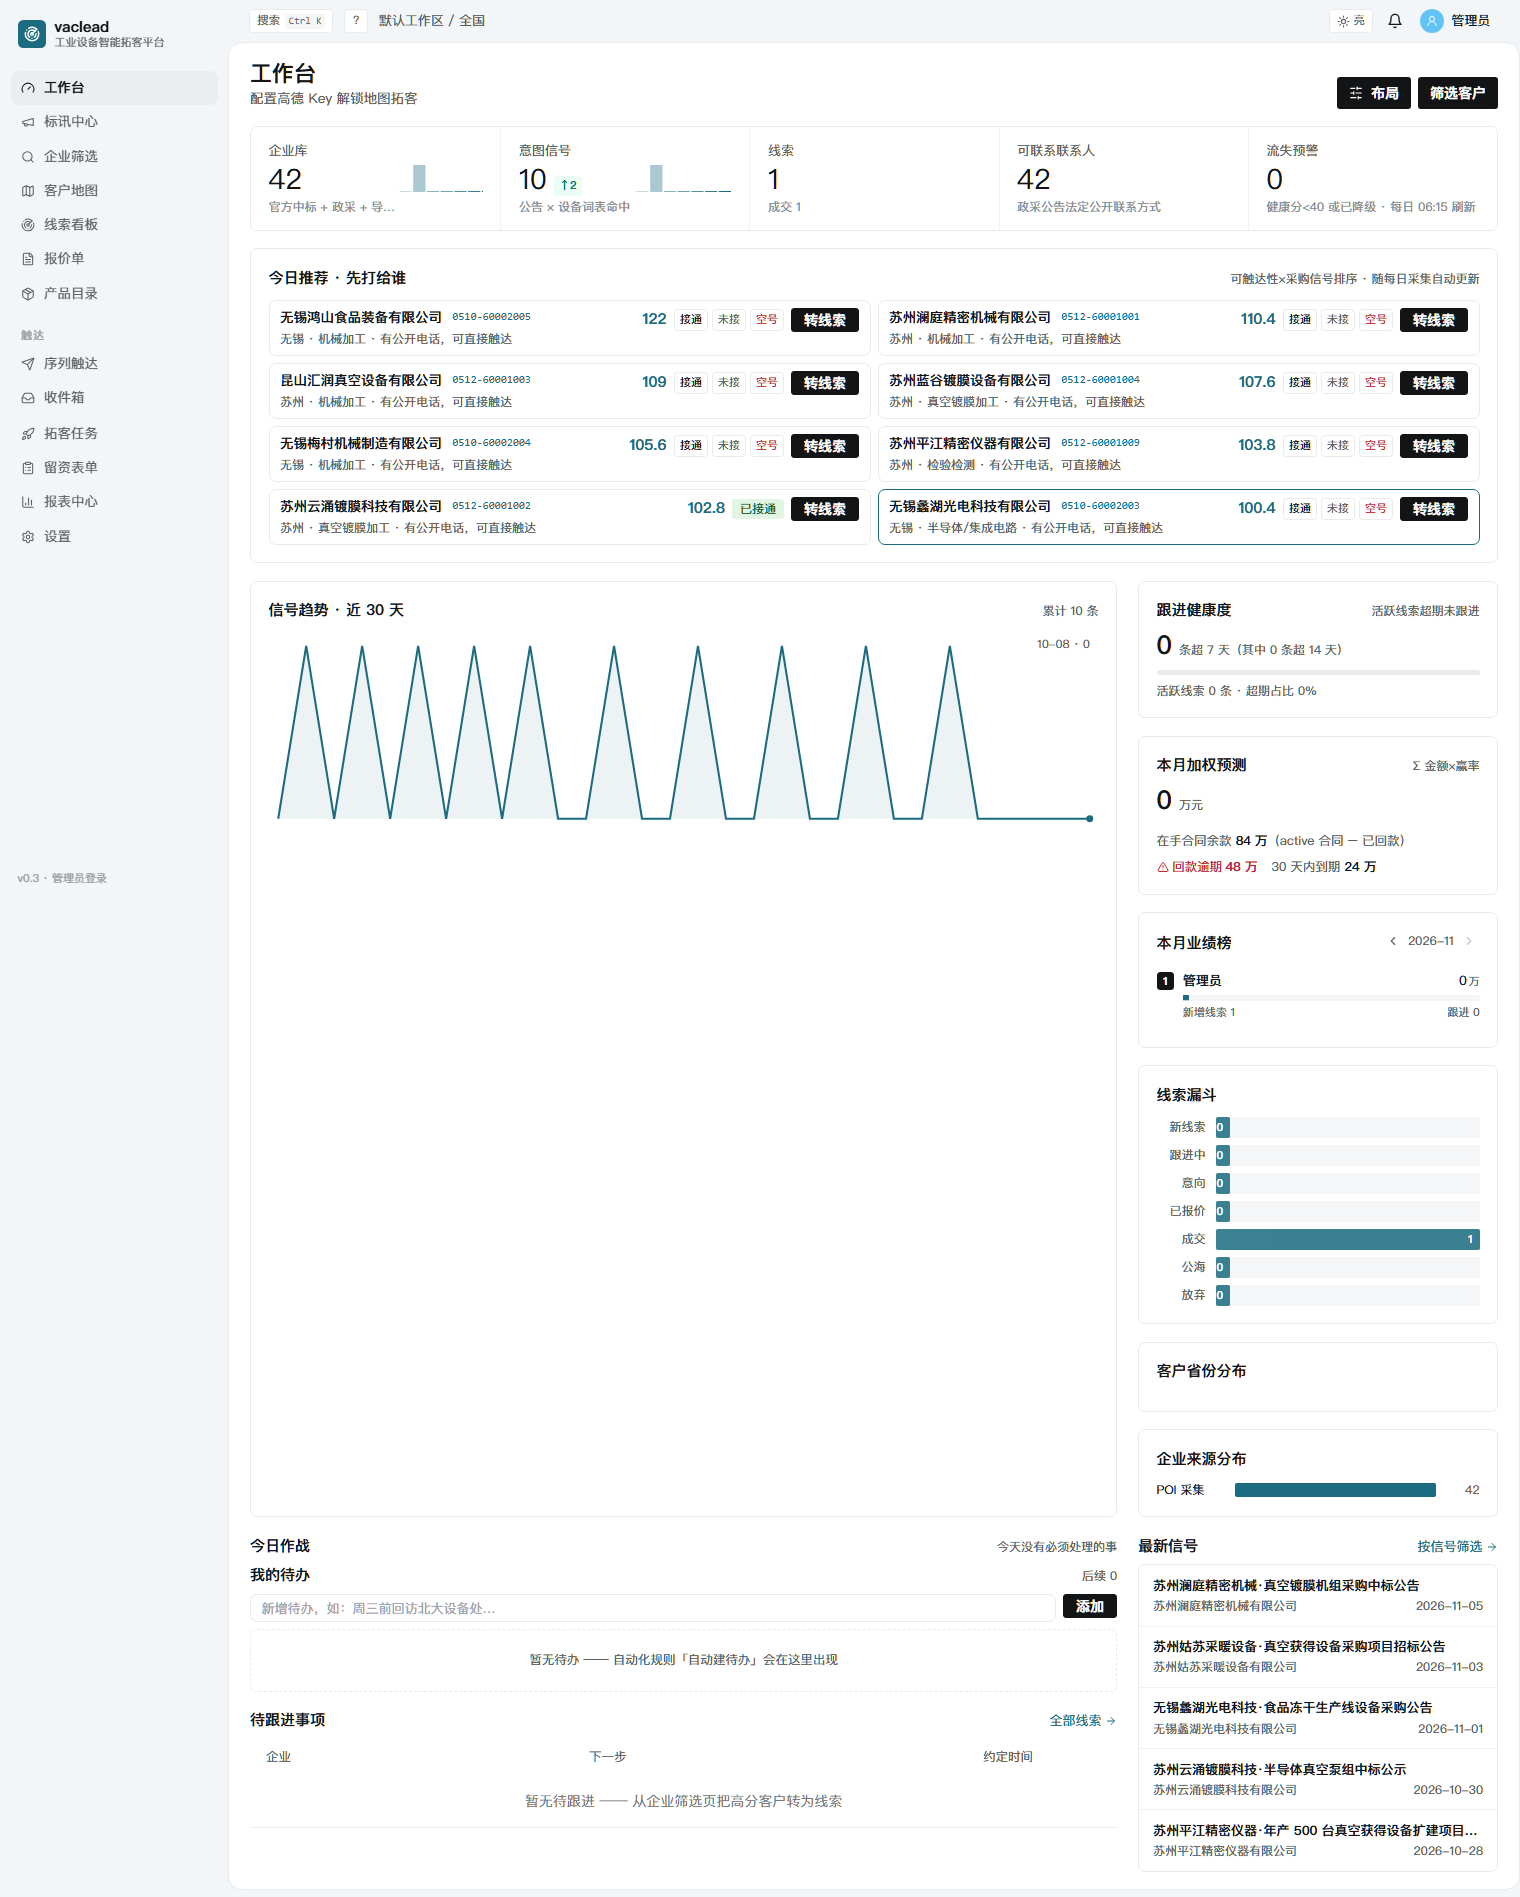
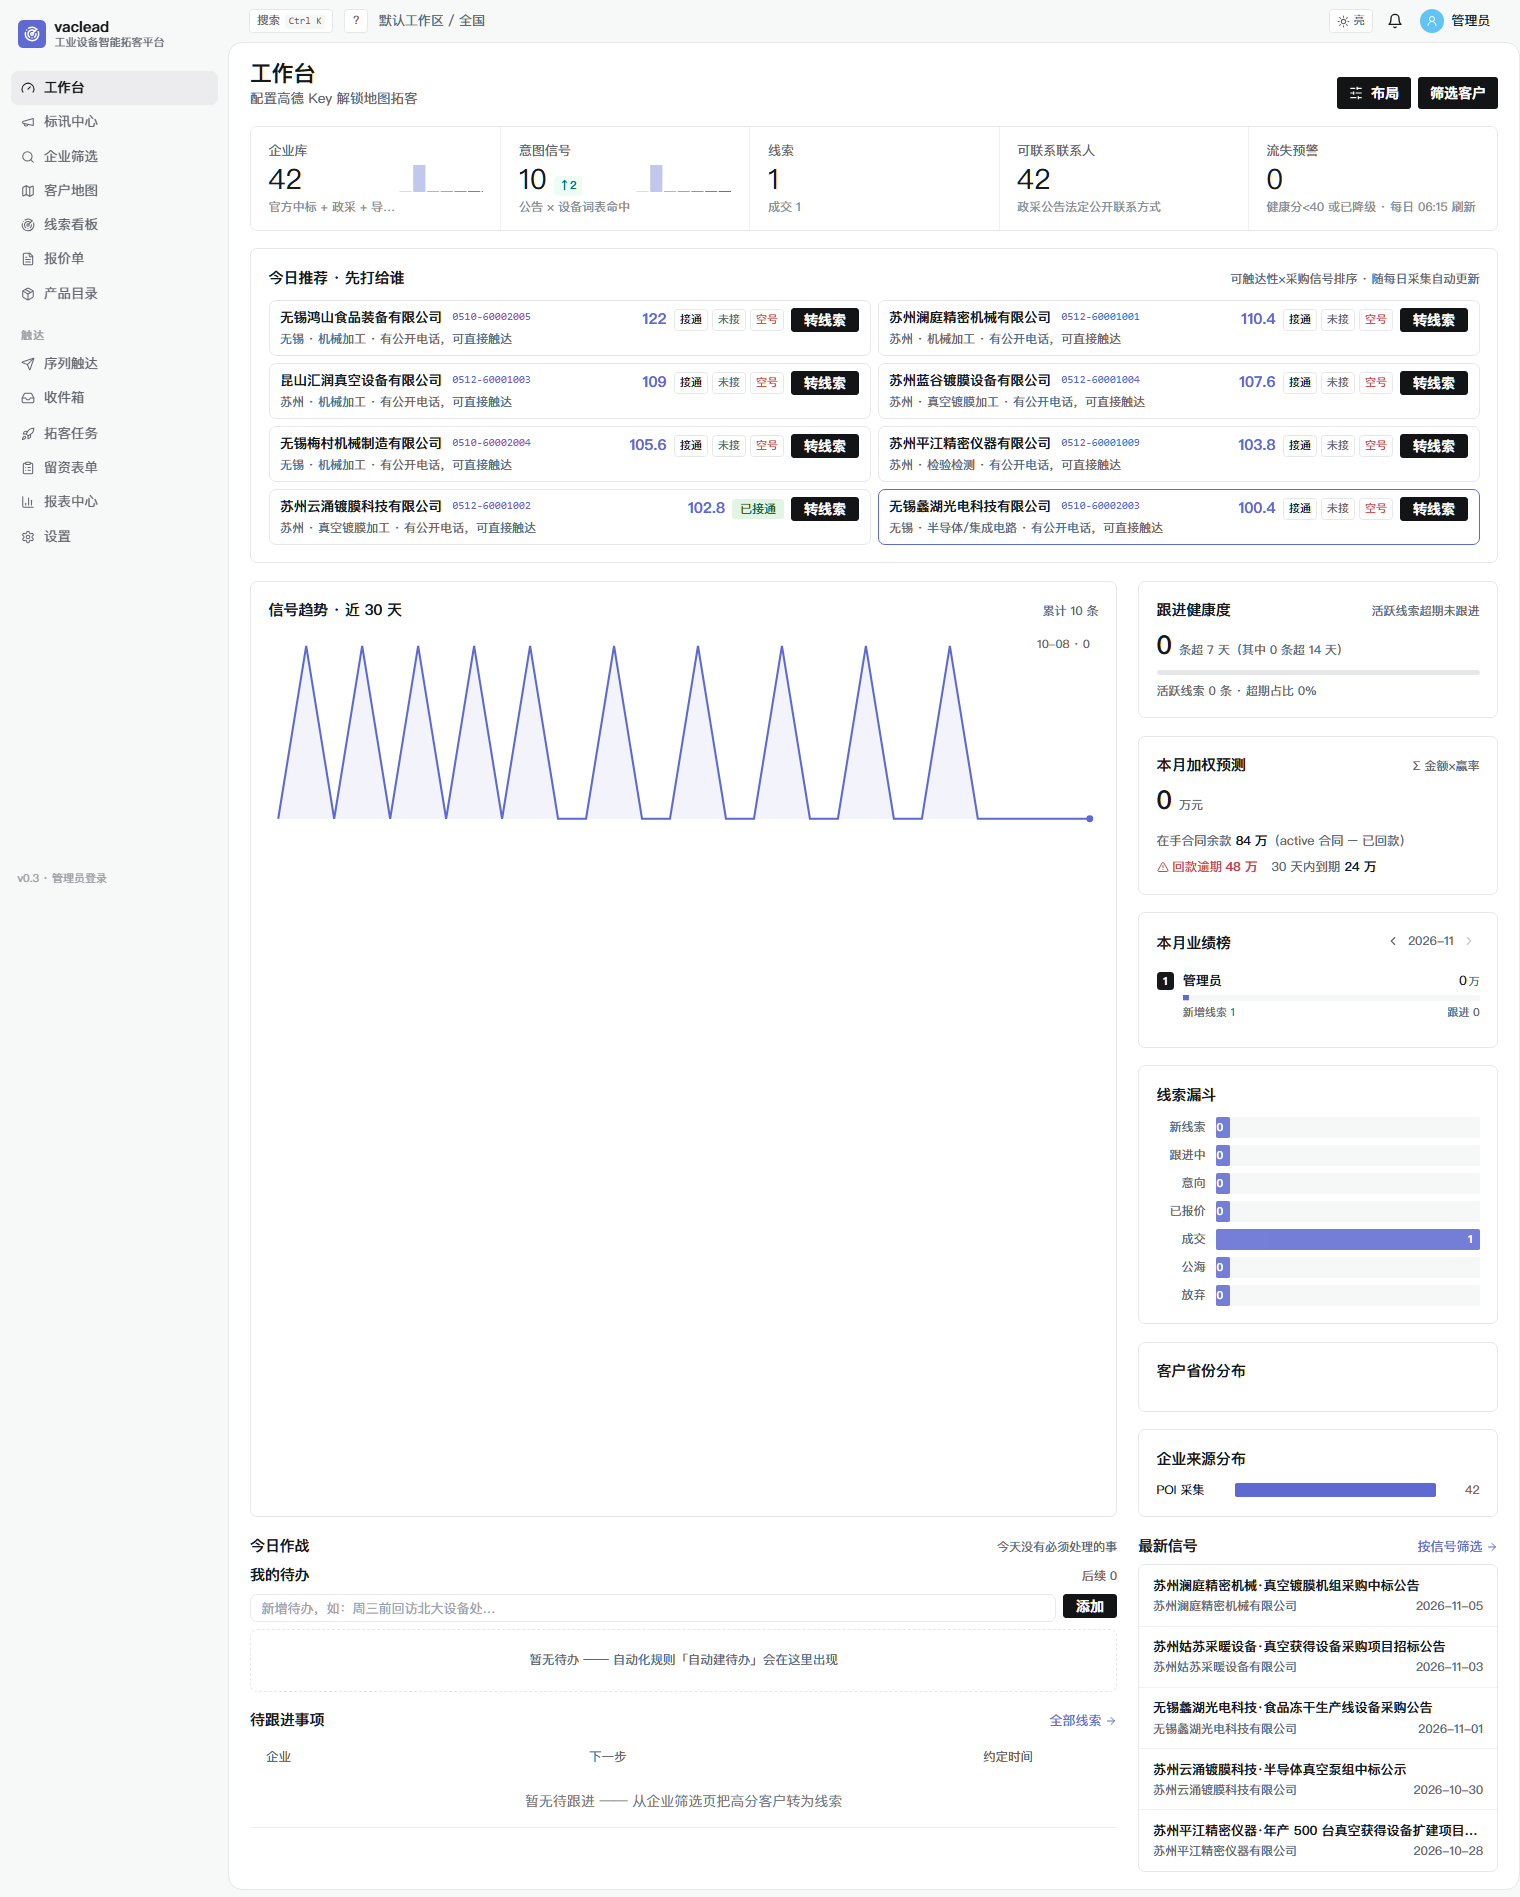
SPEC-BC 截图与WORKLOG: 演示服16张重截(Linear亮色新装) WORKLOG沉淀(令牌换血/13处硬编码sweep/负字距/CSS插入位置坑)

diff --git a/docs/WORKLOG.md b/docs/WORKLOG.md
@@ -1913,3 +1913,22 @@ owner 的必须置 None 或显式建用户**。
 （BB3 补：dup-scan 真库执行——871 万对比对、200 对新入复核队列（累计
 5397）、50 对跳过既有——POI/公告/导入多渠道重复已被 SPEC-Q 引擎捕获，
 按复核流程消化。）
+
+
+## 2026-11-07 · W59 · SPEC-BC Linear 学派亮色重制（Agent B，用户选型）
+
+用户对前端设计不满意 → getdesign.md 调研拉三份标杆规范（Linear/Mercury/
+Vercel DESIGN.md）→ AskUserQuestion 三选一 → **用户选 Linear 学派（暗色）**
+→ 用户再明确"我要亮色的" → **Linear 学派亮色重制**（Linear 也有浅色面）。
+**落地**（全在令牌层，页面结构零改动）：
+- 中性灰阶去青色调：ground #f3f6f8(钢青灰)→#f7f8f8(Linear 纯中性)
+- 主色青蓝 #1b6c80 → **薰衣草蓝紫 #5e6ad2**（Linear signature），
+  hover #4f58c0 / weak #eceefc；13 处硬编码 → var(--accent)
+- charts 调色板青蓝系 → 薰衣草渐变六档
+- selection 青蓝 → lavender；暗色块同步 Linear 暗色令牌（#0f1011 系）
+- **标题负字距 -0.011em**（Linear 密排特征，全局 h1/h2/h3）
+**坑**：CSS 插入位置错误（规则插进 html,body 块内部）→ 括号配对检查脚本
+定位；** Jinja 式教训：改 CSS 先跑配对检查再 build**。
+**验证**：build ✓ + E2E 6 ✓ + 演示截图（readme_shots 对 8011 假数据
+服务重截 16 张——应收行/推荐卡/地图全部上新装）。
+**回退**：改 --accent 一行回青蓝。门禁：305 后端 + 7 E2E 全绿。
